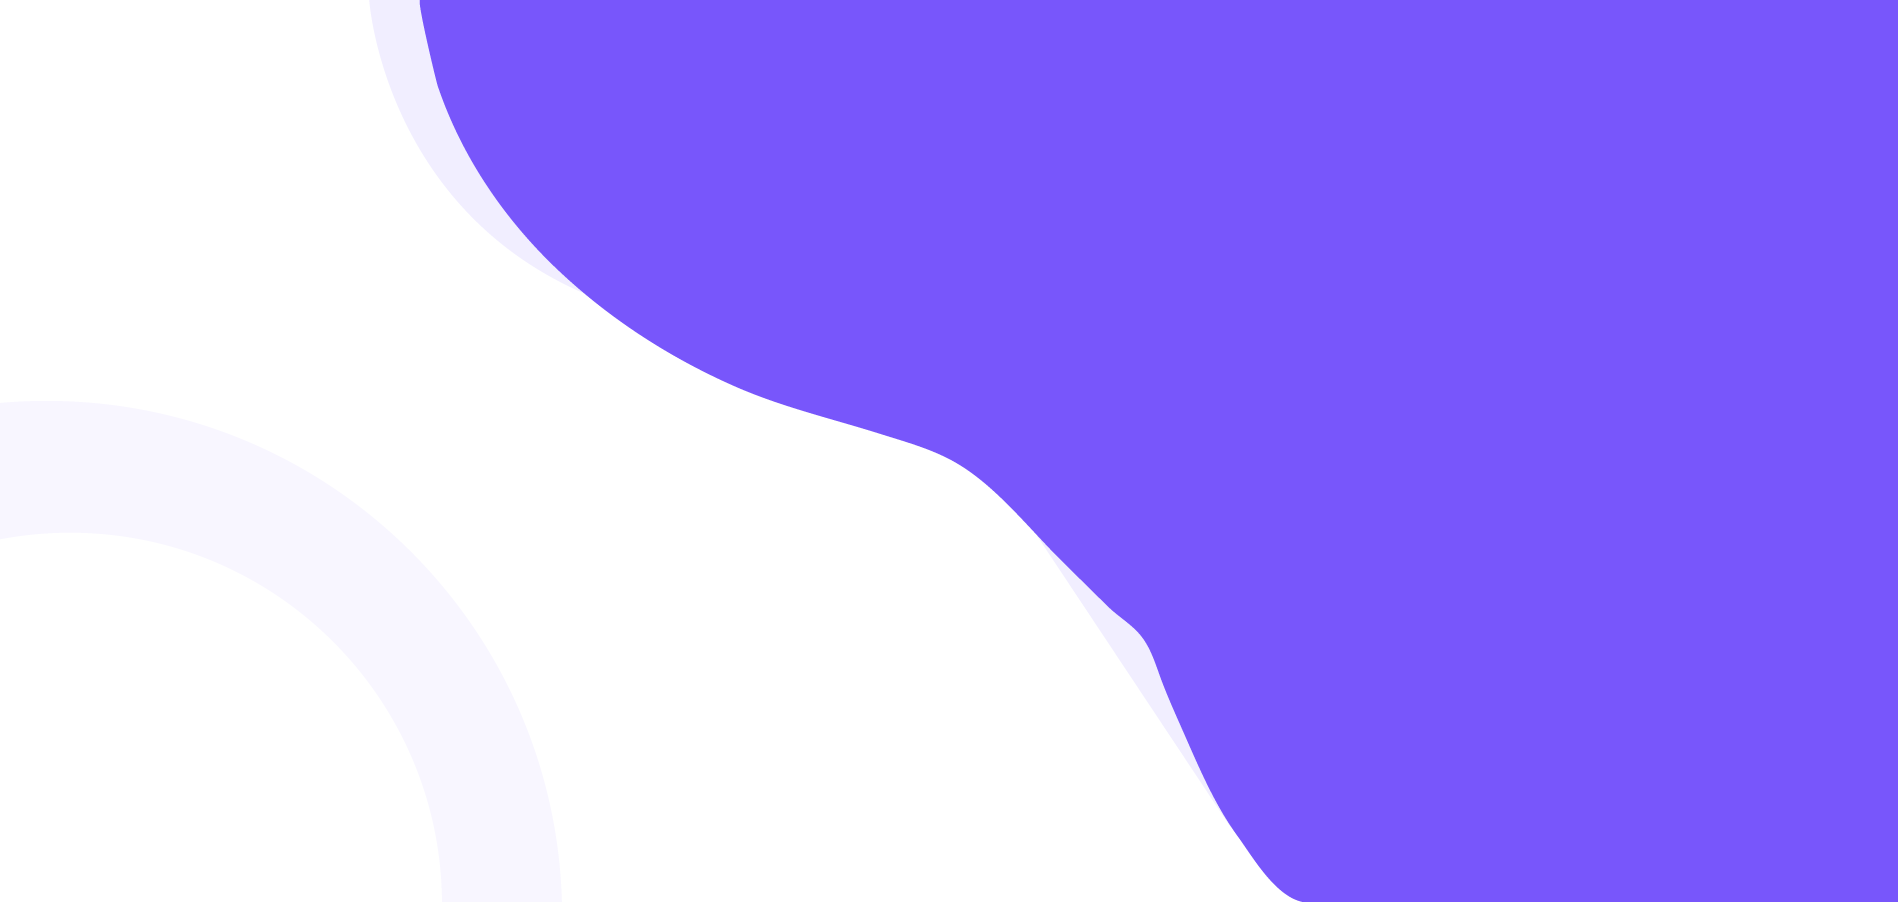
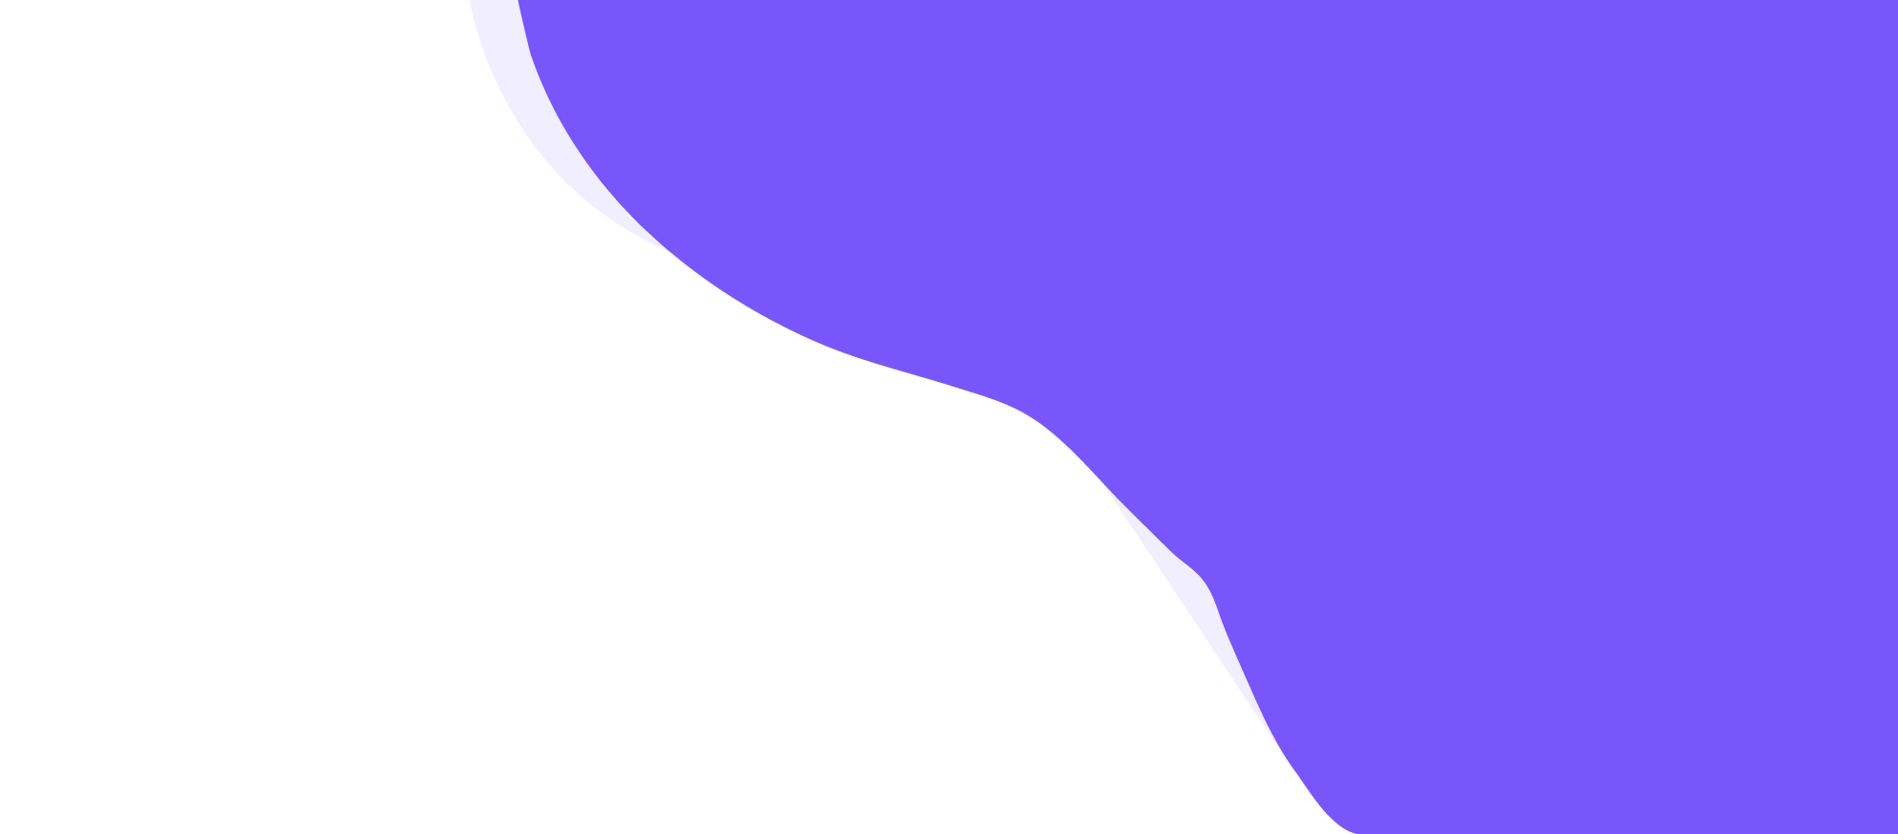
design

Changed region(s): [[0.2176, 0.0, 0.715, 1.0]]

diff --git a/index.html b/index.html
@@ -256,7 +256,7 @@
 			</div><!-- /.container -->
 
 			<div class="scroll-circle wow pixFadeRight" style="visibility: visible; animation-name: pixFadeRight;">
-				<img src="media/background/circle.png" data-parallax="{&quot;y&quot; : -230}" alt="circle" style="transform:translate3d(0px, 0px, 0px) rotateX(0deg) rotateY(0deg) rotateZ(0deg) scaleX(1) scaleY(1) scaleZ(1); -webkit-transform:translate3d(0px, 0px, 0px) rotateX(0deg) rotateY(0deg) rotateZ(0deg) scaleX(1) scaleY(1) scaleZ(1); transform:translate3d(0px, -230px, 0px) rotateX(0deg) rotateY(0deg) rotateZ(0deg) scaleX(1) scaleY(1) scaleZ(1); -webkit-transform:translate3d(0px, -230px, 0px) rotateX(0deg) rotateY(0deg) rotateZ(0deg) scaleX(1) scaleY(1) scaleZ(1); transform:translate3d(0px, -230px, 0px) rotateX(0deg) rotateY(0deg) rotateZ(0deg) scaleX(1) scaleY(1) scaleZ(1); -webkit-transform:translate3d(0px, -230px, 0px) rotateX(0deg) rotateY(0deg) rotateZ(0deg) scaleX(1) scaleY(1) scaleZ(1); transform:translate3d(0px, -0.481px, 0px) rotateX(0deg) rotateY(0deg) rotateZ(0deg) scaleX(1) scaleY(1) scaleZ(1); -webkit-transform:translate3d(0px, -0.481px, 0px) rotateX(0deg) rotateY(0deg) rotateZ(0deg) scaleX(1) scaleY(1) scaleZ(1); transform:translate3d(0px, -187.566px, 0px) rotateX(0deg) rotateY(0deg) rotateZ(0deg) scaleX(1) scaleY(1) scaleZ(1); -webkit-transform:translate3d(0px, -187.566px, 0px) rotateX(0deg) rotateY(0deg) rotateZ(0deg) scaleX(1) scaleY(1) scaleZ(1); transform:translate3d(0px, 0px, 0px) rotateX(0deg) rotateY(0deg) rotateZ(0deg) scaleX(1) scaleY(1) scaleZ(1); -webkit-transform:translate3d(0px, 0px, 0px) rotateX(0deg) rotateY(0deg) rotateZ(0deg) scaleX(1) scaleY(1) scaleZ(1); transform:translate3d(0px, -230px, 0px) rotateX(0deg) rotateY(0deg) rotateZ(0deg) scaleX(1) scaleY(1) scaleZ(1); -webkit-transform:translate3d(0px, -230px, 0px) rotateX(0deg) rotateY(0deg) rotateZ(0deg) scaleX(1) scaleY(1) scaleZ(1); ">
+				
 			</div>
 		</section><!-- /.featured -->
 

diff --git a/assets/css/app.css b/assets/css/app.css
@@ -153,7 +153,9 @@ h6 {
   font-weight: 600;
   color: #2b2350;
 }
-
+.featured-two-same{
+  padding-top: 0px !important;
+}
 img {
   max-width: 100%;
   height: auto;
